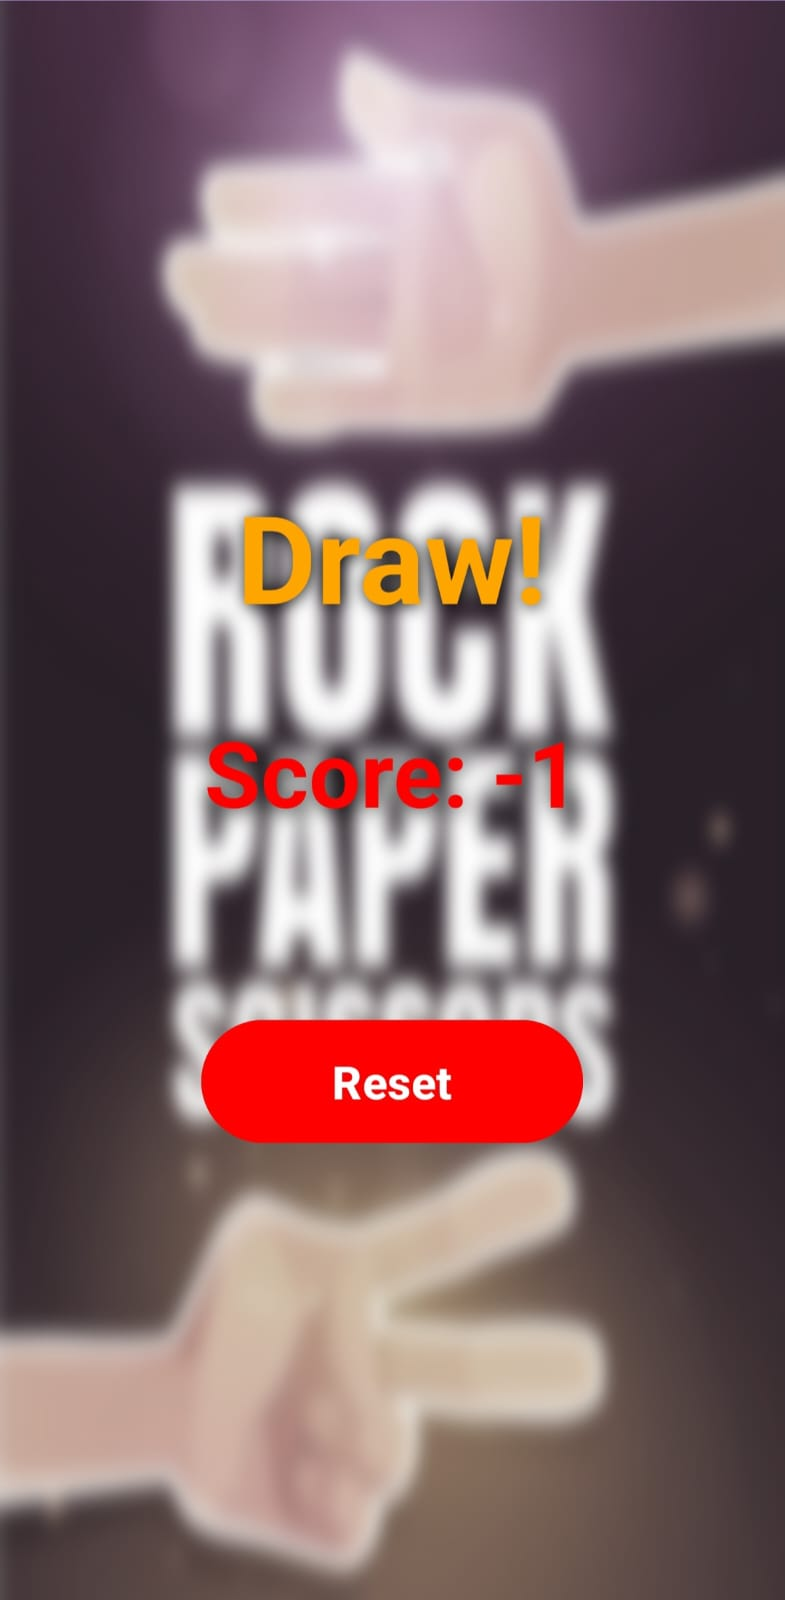
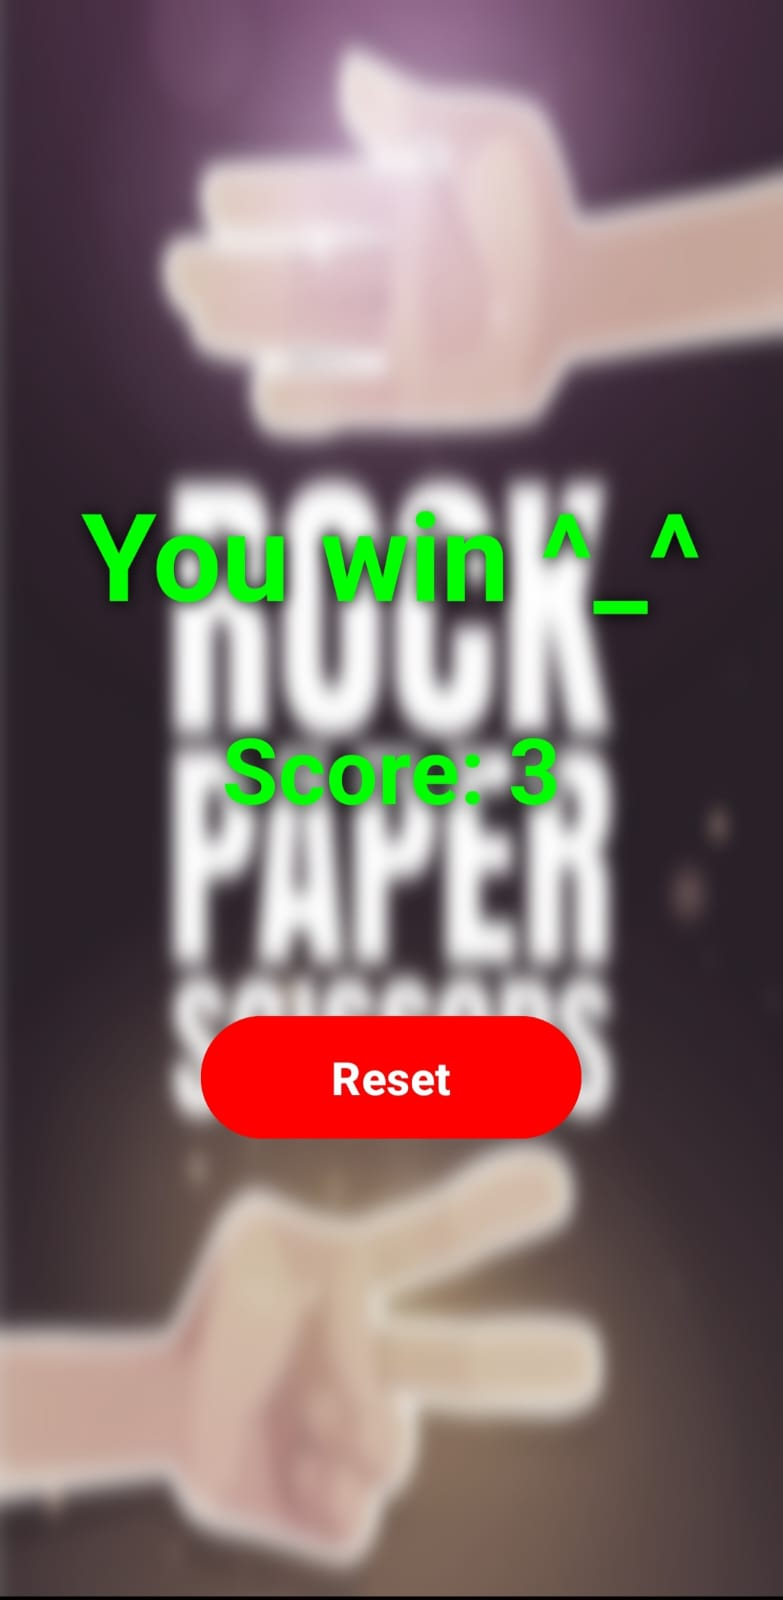
edit draw +1 not -1

diff --git a/todoFiles/app/src/main/java/com/example/rock_paper_scissors/MainActivity.java b/todoFiles/app/src/main/java/com/example/rock_paper_scissors/MainActivity.java
@@ -117,7 +117,7 @@ public class MainActivity extends AppCompatActivity {
     public void calculateScore(String playerChoice, String adversaryChoice) {
         if (playerChoice.equals("rock")) {
             if (adversaryChoice.equals("rock")) {
-                score -= 1;
+                score += 1;
                 feedback = "Draw!";
             }
             else if (adversaryChoice.equals("paper")) {
@@ -136,7 +136,7 @@ public class MainActivity extends AppCompatActivity {
                 feedback = "You win ^_^";
             }
             else if (adversaryChoice.equals("paper")) {
-                score -= 1;
+                score += 1;
                 feedback = "Draw!";
             }
             else {
@@ -155,7 +155,7 @@ public class MainActivity extends AppCompatActivity {
                 feedback = "You win ^_^";
             }
             else {
-                score -= 1;
+                score += 1;
                 feedback = "Draw!";
             }
         }
